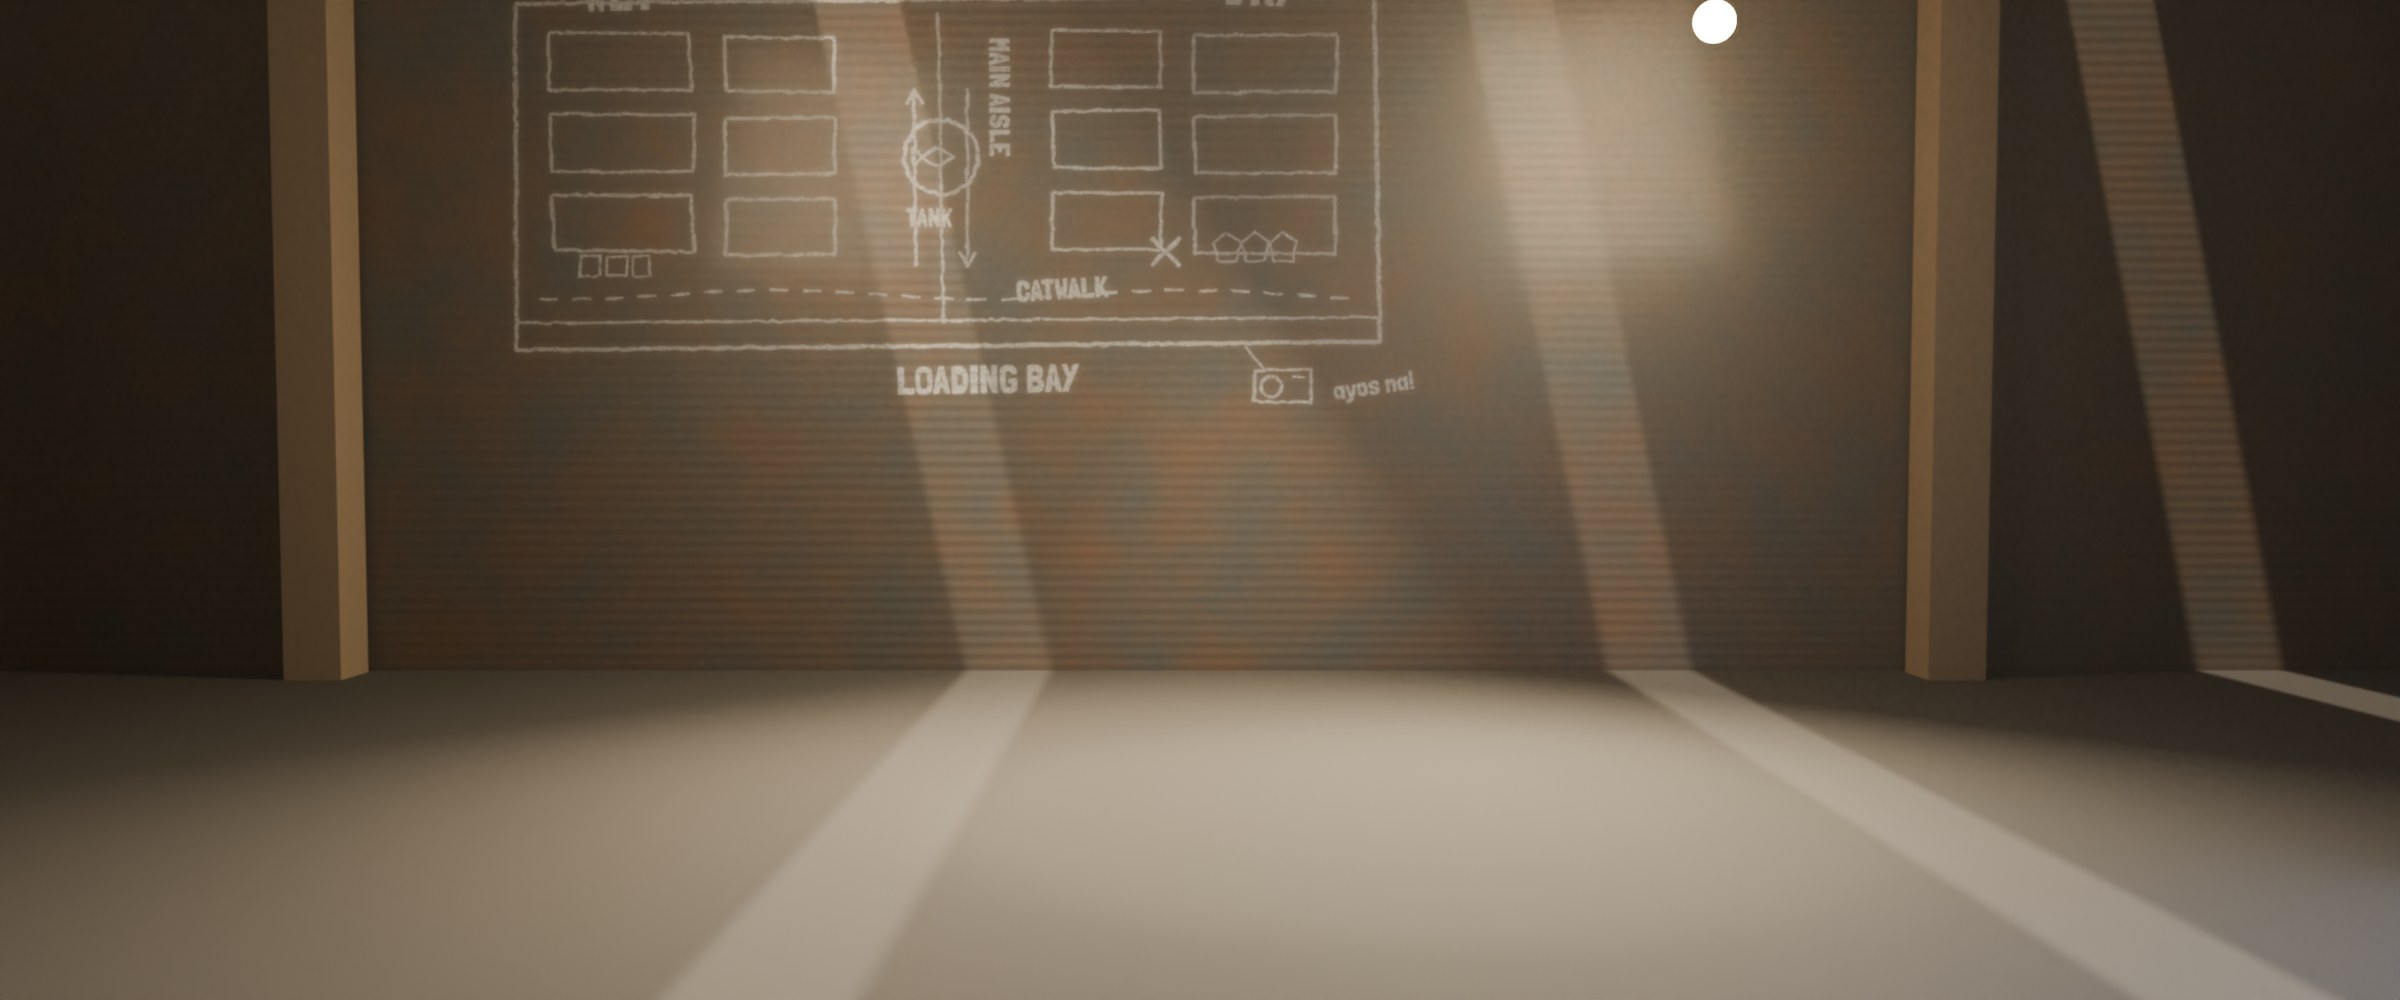
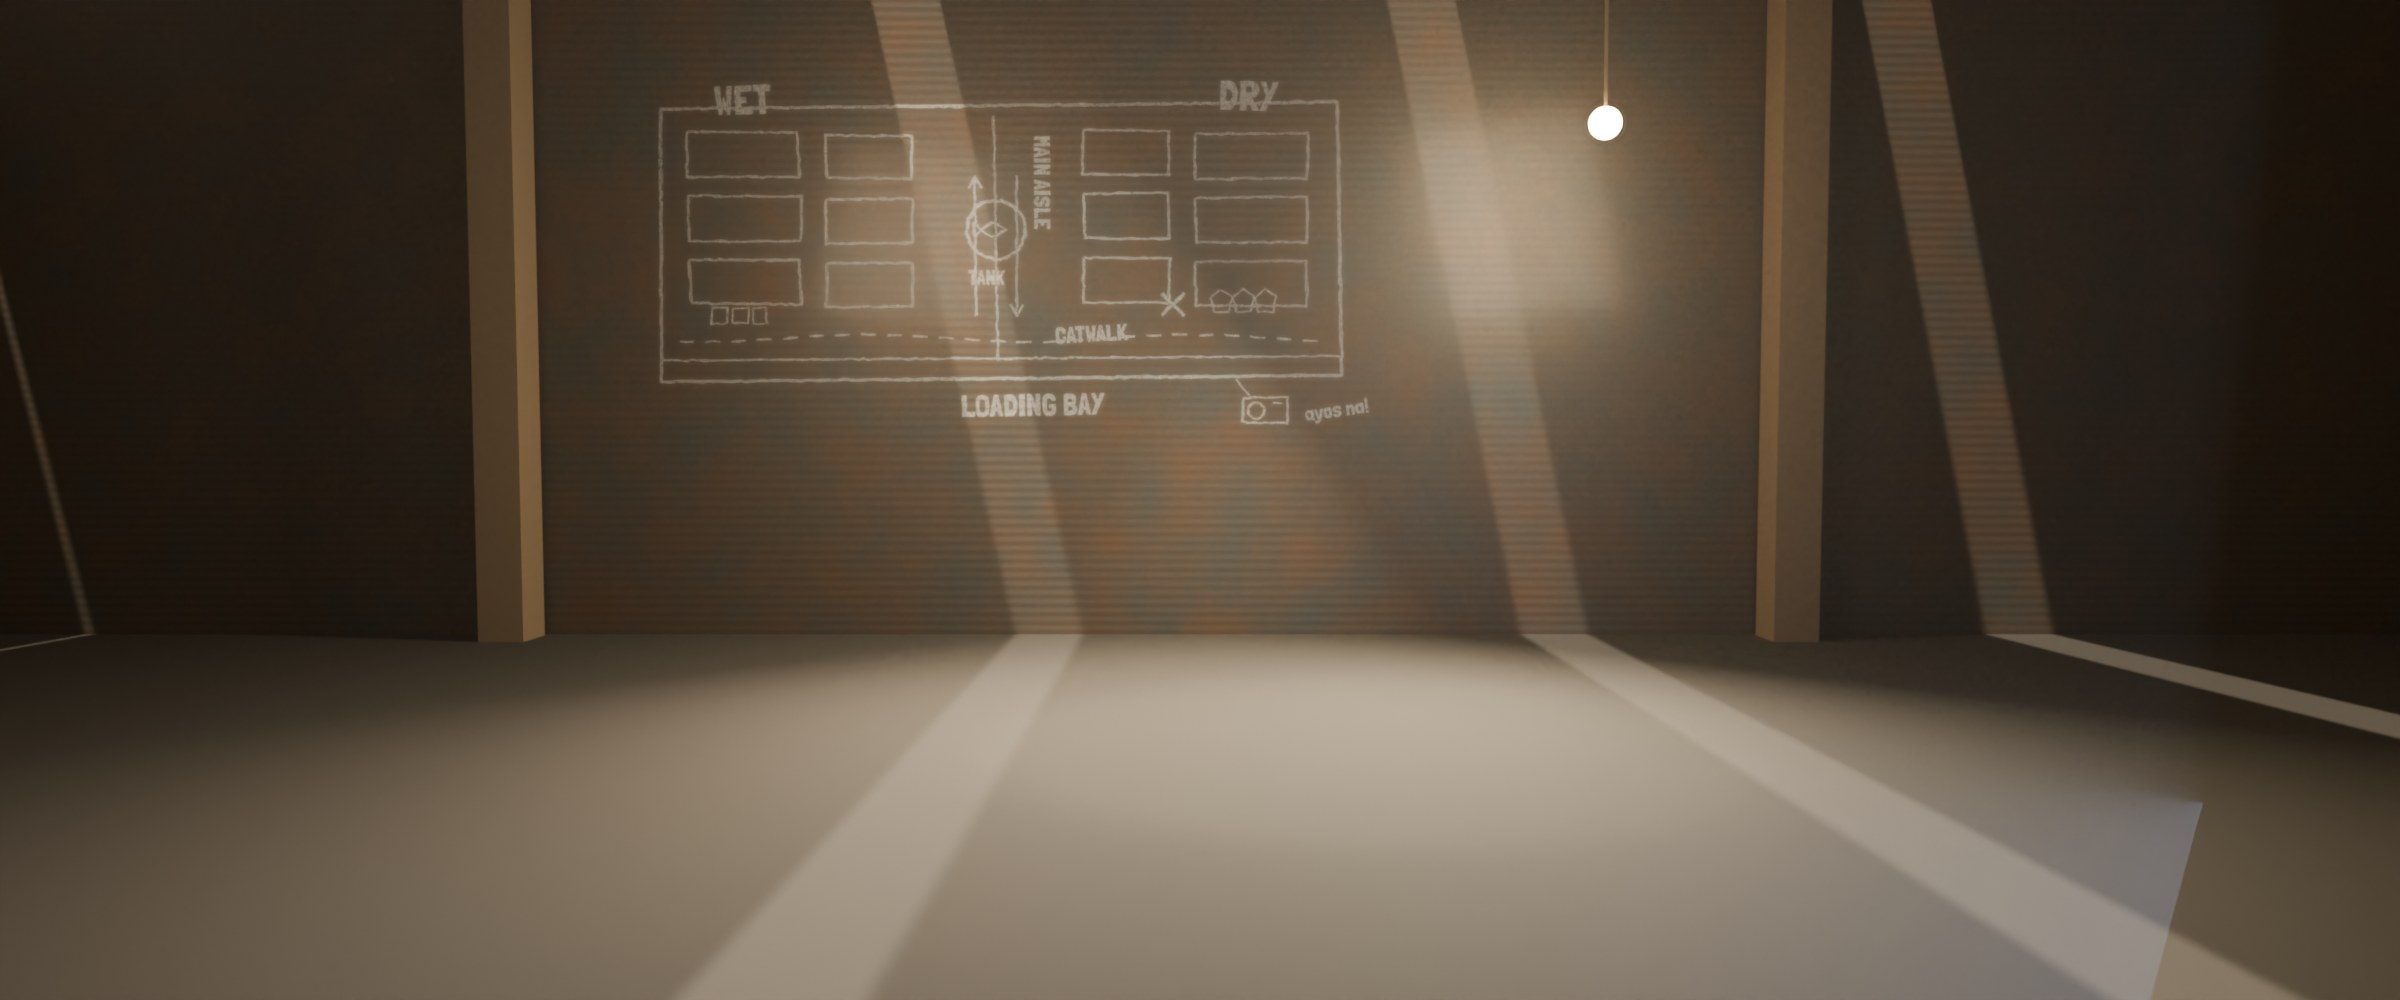
fix(home): shading the right way up, full chalk map, Kids captures
The first CI capture showed hard bands: the top and bottom shades used
the ramp upside down (its first texture row is the bottom), and so did
the Kids card fade. The stall plate is re-rendered at 40 degrees tall so
the whole chalk map and the hanging bulb show above the kid. The CI
screenshots now include the Kids grid and Karding's kid page.

Claude-Session: https://claude.ai/code/session_01MhiEQ44hvW7PtWrTi1Jbov

diff --git a/unity/Game/Assets/Kalyeah/View/Menus/HomeScreenView.cs b/unity/Game/Assets/Kalyeah/View/Menus/HomeScreenView.cs
@@ -35,8 +35,8 @@ namespace Kalyeah.Game
         const float WeaveTile = 96f;
         const int MoteCount = 18;
 
-        // the stall plate is rendered through HeroStage's camera opened from 26 to 32 degrees tall, at 2400 by 1000
-        const float PlateOverHero = 1.2418f; // tan(16 deg) / tan(13 deg)
+        // the stall plate is rendered through HeroStage's camera opened from 26 to 40 degrees tall, at 2400 by 1000
+        const float PlateOverHero = 1.5765f; // tan(20 deg) / tan(13 deg)
         const float PlateAspect = 2.4f;
 
         static readonly string[] Difficulties = { "easy", "medium", "hard" };
@@ -310,12 +310,13 @@ namespace Kalyeah.Game
         void BuildShades(RectTransform parent)
         {
             RectTransform shades = Ui.Fill("Shades", parent);
+            // Ramp's first row is its bottom (dark there, clear at the top): flip it for the top shade
             RawImage top = MakeRaw("Top", shades, Ramp(false));
             top.color = new Color(Shade.r, Shade.g, Shade.b, 0.75f);
+            top.uvRect = new Rect(0f, 1f, 1f, -1f);
             Stretch(top.rectTransform, new Vector2(0f, 0.78f), Vector2.one);
             RawImage bottom = MakeRaw("Bottom", shades, Ramp(false));
             bottom.color = new Color(Shade.r, Shade.g, Shade.b, 0.92f);
-            bottom.uvRect = new Rect(0f, 1f, 1f, -1f);
             Stretch(bottom.rectTransform, Vector2.zero, new Vector2(1f, 0.36f));
             RawImage left = MakeRaw("Left", shades, Ramp(true));
             left.color = new Color(Shade.r, Shade.g, Shade.b, 0.6f);
@@ -1099,7 +1100,7 @@ namespace Kalyeah.Game
         static Texture2D s_rampV;
         static Texture2D s_rampH;
 
-        /// <summary>A code-drawn alpha ramp for shading washes: 1 at the top to 0 at the bottom, or 1 at the left to 0 at the right.</summary>
+        /// <summary>A code-drawn alpha ramp for shading washes: 1 at the bottom row to 0 at the top, or 1 at the left to 0 at the right.</summary>
         static Texture2D Ramp(bool horizontal)
         {
             Texture2D cached = horizontal ? s_rampH : s_rampV;

diff --git a/unity/Game/Assets/Kalyeah/Editor/KalyeahBuild.cs b/unity/Game/Assets/Kalyeah/Editor/KalyeahBuild.cs
@@ -735,6 +735,23 @@ public static class KalyeahBuild
                 CaptureQuadAspect(pickCamera, dir, "menu_pick", pickView.RefreshResponsiveLayout);
             }
 
+            // Kids: the grid and Karding's kid page, on all four shapes
+            SetFullViewport();
+            EditorSceneManager.NewScene(NewSceneSetup.EmptyScene, NewSceneMode.Single);
+            {
+                var kidsRoot = new GameObject("KidsShot").transform;
+                var kidsCamera = new GameObject("KidsCamera", typeof(Camera)).GetComponent<Camera>();
+                kidsCamera.transform.SetParent(kidsRoot, false);
+                kidsCamera.clearFlags = CameraClearFlags.SolidColor;
+                kidsCamera.backgroundColor = Color.black;
+                kidsCamera.orthographic = true;
+                Canvas kidsCanvas = Ui.MakeCanvas("KidsCanvas", kidsRoot, kidsCamera);
+                using var kidsView = new KidsScreenView(kidsCanvas.transform, data);
+                kidsView.Show();
+                CaptureQuadAspect(kidsCamera, dir, "menu_kids", () => { kidsView.Show(); kidsView.RefreshLayout(); });
+                CaptureQuadAspect(kidsCamera, dir, "menu_kid_page", () => kidsView.OpenPage("karding"));
+            }
+
             SetFullViewport();
             EditorSceneManager.NewScene(NewSceneSetup.EmptyScene, NewSceneMode.Single);
             var root = new GameObject("MatchShot").transform;

diff --git a/unity/Game/Assets/Kalyeah/View/Menus/KidsScreenView.cs b/unity/Game/Assets/Kalyeah/View/Menus/KidsScreenView.cs
@@ -175,8 +175,7 @@ namespace Kalyeah.Game
             RawImage bust = MakeRaw("Bust", fill.rectTransform, KalyeahResources.Texture("portraits/busts/" + id));
             bust.enabled = bust.texture != null;
             RawImage fade = MakeRaw("Fade", fill.rectTransform, Ramp());
-            fade.color = new Color(Shade.r, Shade.g, Shade.b, 0.95f);
-            fade.uvRect = new Rect(0f, 1f, 1f, -1f);
+            fade.color = new Color(Shade.r, Shade.g, Shade.b, 0.95f); // Ramp's first row is its bottom: dark at the card's foot
             Stretch(fade.rectTransform, Vector2.zero, new Vector2(1f, 0.45f));
 
             // the role as an icon only, top left
@@ -542,7 +541,7 @@ namespace Kalyeah.Game
 
         static Texture2D s_ramp;
 
-        /// <summary>A vertical alpha ramp (1 at the top to 0 at the bottom).</summary>
+        /// <summary>A vertical alpha ramp: 1 at the bottom row to 0 at the top.</summary>
         static Texture2D Ramp()
         {
             if (s_ramp != null) return s_ramp;

diff --git a/tools/art/home_stall/stall_scene.py b/tools/art/home_stall/stall_scene.py
@@ -141,9 +141,9 @@ if SHOT == "home":
     for o in scn.objects:
         if o.name.startswith(("crate", "sack")): o.hide_render = True  # a clean stall: no prop blocks in the home shot
     beam.data.energy = 700  # no kid in the beam, so it would leave a hot patch on the bare floor
-    # HeroStage's camera (4.3 m back, 1.0 m up, aimed at 0.8 m), opened to 32 degrees tall so the plate covers the screen
+    # HeroStage's camera (4.3 m back, 1.0 m up, aimed at 0.8 m), opened to 40 degrees tall so the plate covers the screen
     scn.render.resolution_x, scn.render.resolution_y = 2400, 1000
-    cam.data.angle = math.radians(32); cam.location = (0, -4.3, 1.0)
+    cam.data.angle = math.radians(40); cam.location = (0, -4.3, 1.0)
     cam.rotation_euler = (Vector((0, 0, 0.8)) - cam.location).to_track_quat("-Z", "Y").to_euler()
     cam.data.dof.focus_distance = 4.3; cam.data.dof.aperture_fstop = 2.8
 elif SHOT == "showcase":

diff --git a/tools/art/home_stall/README.md b/tools/art/home_stall/README.md
@@ -3,7 +3,7 @@
 `assets/ui/home/stall.jpg` is the home screen's backdrop: a Palengke stall's roll-up shutter with Karding's chalk map of the
 market on it, under the tin roof's skylight shafts (`docs/MAPS.md`, `docs/LORE.md`). It is rendered in Blender (Cycles) with
 no kid in it: the game draws the selected kid live in front of it, and the plate is shot through the same camera as
-`HeroStage` (4.3 m back, 1.0 m up, aimed at 0.8 m), opened from 26 to 32 degrees tall, so both share one perspective.
+`HeroStage` (4.3 m back, 1.0 m up, aimed at 0.8 m), opened from 26 to 40 degrees tall, so both share one perspective.
 
 ```
 python tools/art/home_stall/chalk_map.py /tmp/chalk_map.png
@@ -12,4 +12,4 @@ python -c "from PIL import Image; Image.open('/tmp/stall.png').convert('RGB').sa
 ```
 
 The kid model is loaded only to size the scene and is hidden in the `home` shot. `HomeScreenView.PlateOverHero` and
-`PlateAspect` must change with the camera angle (32 degrees) or the 2400 by 1000 size.
+`PlateAspect` must change with the camera angle (40 degrees) or the 2400 by 1000 size.
